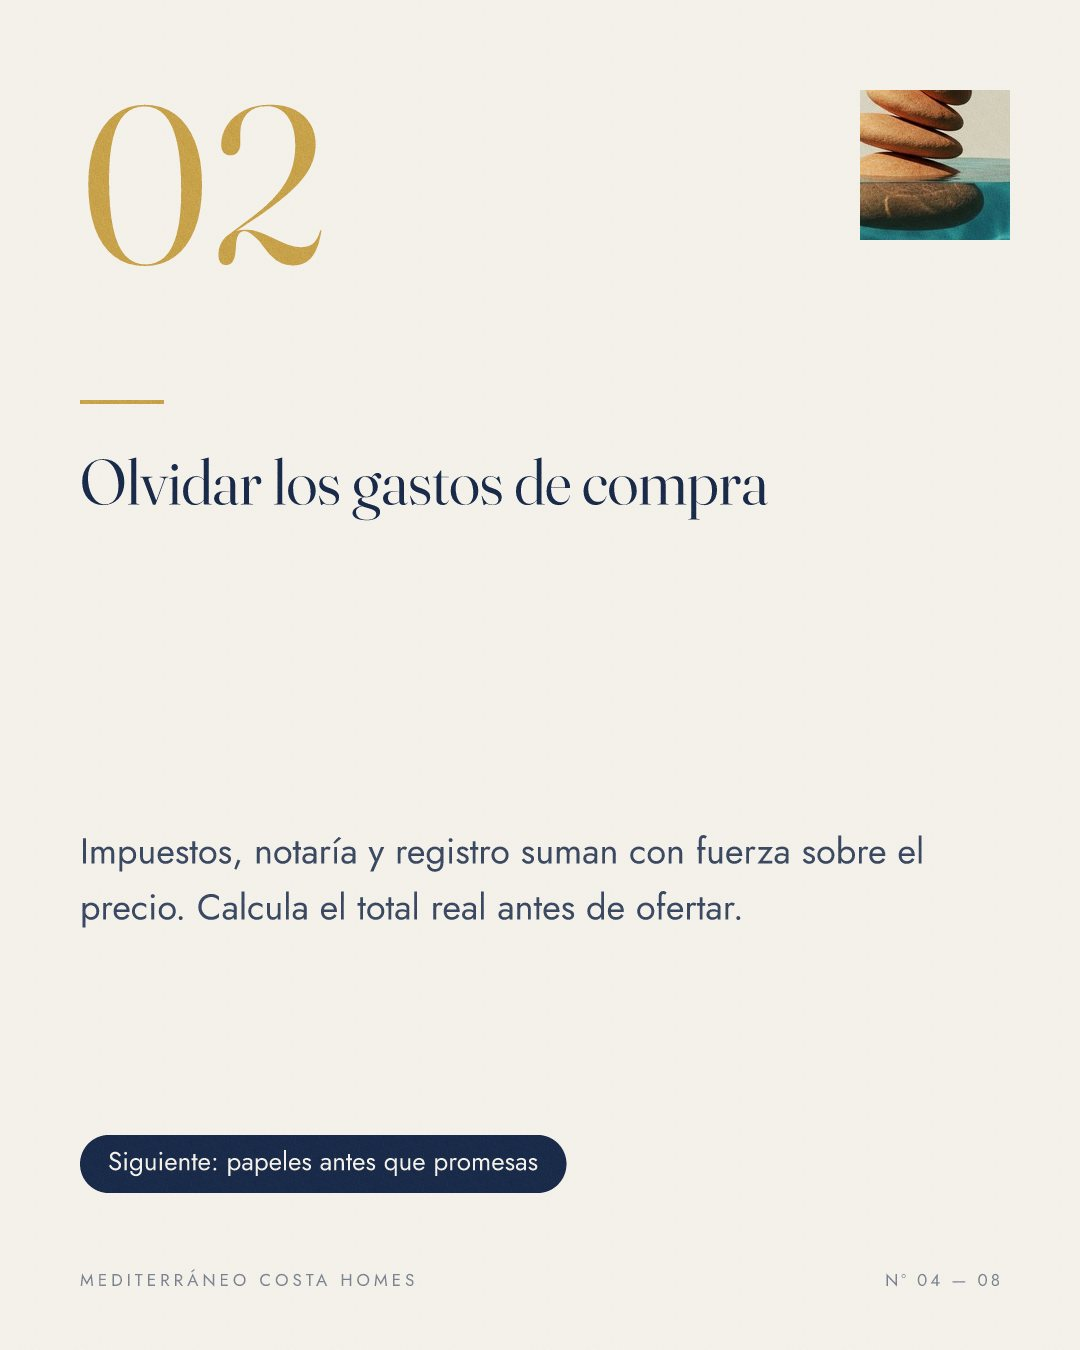
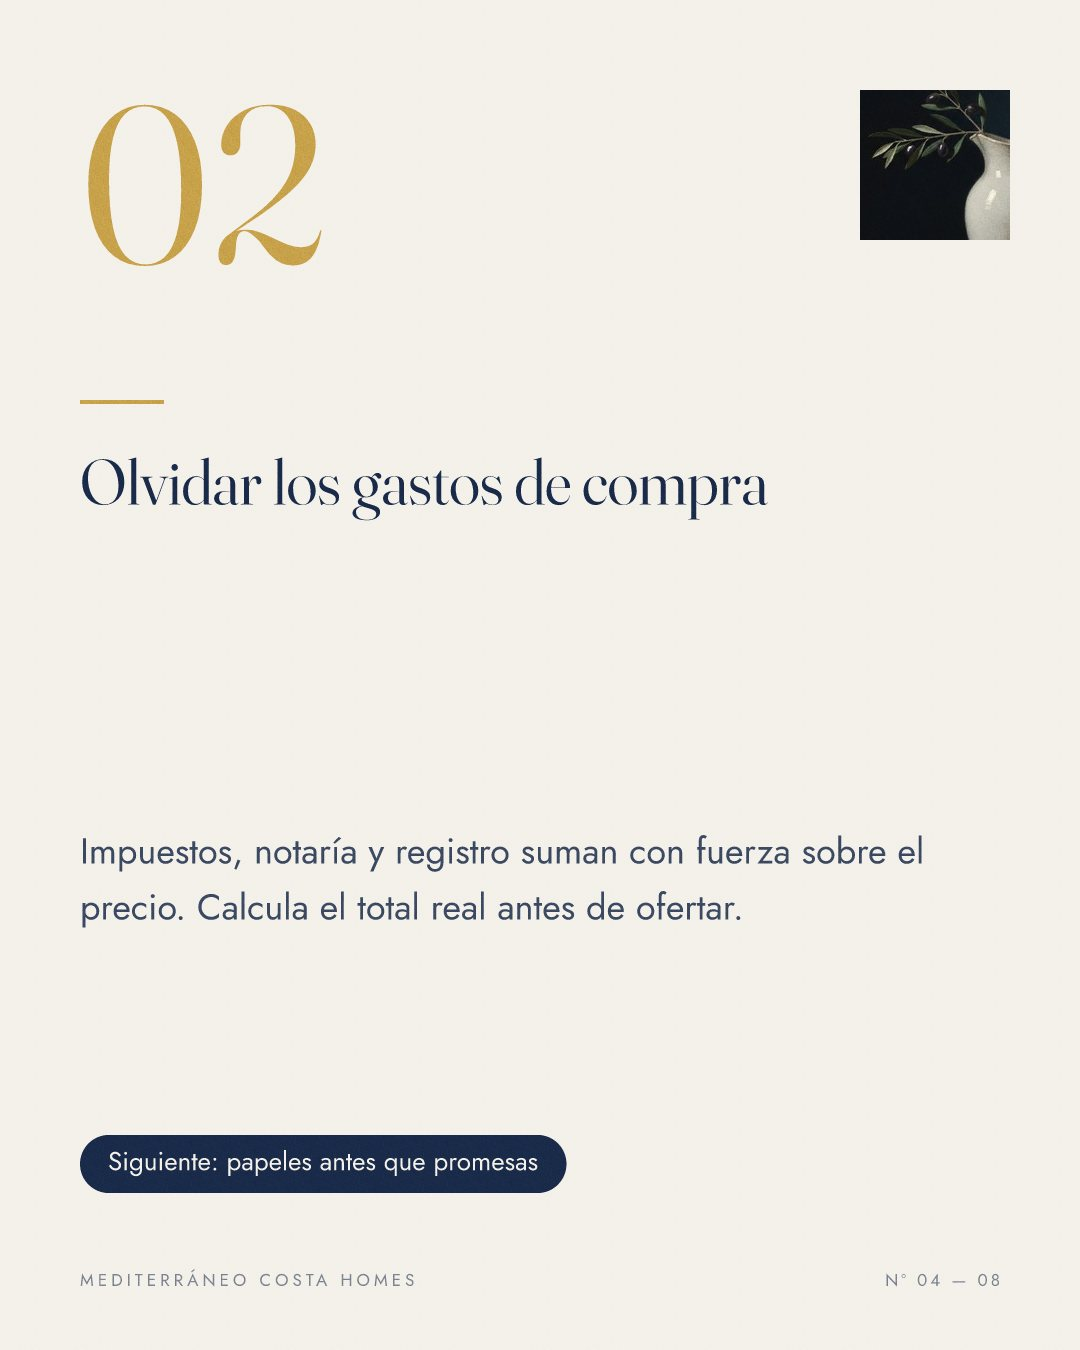
feat(studio): reseed + 2 new styles + two-colour override (Christian 2026-08-28, all three approved/ordered) — (1) BODEGON + SALITRE re-seeded with his approved v2 anchor families (old-master dusk still-life chiaroscuro / editorial 35mm film composition), old anchors retired to carousel/_library/_re

Changed region(s): [[0.7944, 0.0622, 0.9472, 0.1867]]

diff --git a/apps/dashboard/app/(app)/studio/carousel-studio.tsx b/apps/dashboard/app/(app)/studio/carousel-studio.tsx
@@ -44,13 +44,16 @@ const LANGS: [string, string][] = [
   ["ru", "Русский"], ["it", "Italiano"], ["pt", "Português"],
 ];
 
+// the AI-imagery tips styles (fresh artwork per topic; colour mood applies to these)
+const AI_STYLE_KEYS = ["bodegon", "litoral", "tinta", "salitre", "papel", "arcilla", "acuarela", "bordado", "pueblo", "mercado"];
+
 // Style example slides ship as static assets (public/studio/carousel-examples/<style>/<n>.jpg)
 // so the picker paints instantly — no fetch, no signed URLs. Counts must match the files on disk.
 const EXAMPLE_COUNTS: Record<string, number> = {
   // tips styles: FULL decks rendered by the production engine (Christian 2026-08-28: "i want
   // all the slides in examples not just 3")
   acuarela: 8, arcilla: 8, bodegon: 8, bordado: 8, cartel: 7, editorial: 7, encalada: 7,
-  litoral: 8, papel: 8, salitre: 8, sereno: 7, tinta: 8,
+  litoral: 8, mercado: 8, papel: 8, pueblo: 8, salitre: 8, sereno: 7, tinta: 8,
   // listing styles (parked out of the UI): partial sample sets remain
   brisa: 2, cuarteto: 2, horizonte: 3, marea: 2, plano: 3, portada: 3, recorte: 2, riviera: 2, ventana: 2,
 };
@@ -83,14 +86,16 @@ const STYLES: Record<CarouselType, [string, string, string][]> = {
     ["cartel", "Cartel", "Bold Spanish poster type, giant numbers"],
     ["encalada", "Encalada", "Mediterranean — limewash, terracotta and olive"],
     ["sereno", "Sereno", "Quiet luxury — fine lines and lots of air"],
-    ["bodegon", "Bodegón", "AI imagery — sculptural objects on turquoise water"],
+    ["bodegon", "Bodegón", "AI imagery — dusk still-life, painted with light"],
     ["litoral", "Litoral", "AI imagery — Mediterranean travel-poster illustration"],
     ["tinta", "Tinta", "AI imagery — two-ink print posters, the riso sun"],
-    ["salitre", "Salitre", "AI imagery — grainy 35mm coastal film photography"],
+    ["salitre", "Salitre", "AI imagery — editorial 35mm film photography"],
     ["papel", "Papel", "AI imagery — layered paper-cut scenes"],
     ["arcilla", "Arcilla", "AI imagery — the handmade clay miniature world"],
     ["acuarela", "Acuarela", "AI imagery — watercolour and ink sketches"],
     ["bordado", "Bordado", "AI imagery — embroidered thread on linen"],
+    ["pueblo", "Pueblo", "AI imagery — Costa Blanca in bloom: white lanes, blue doors, bougainvillea"],
+    ["mercado", "Mercado", "AI imagery — Spanish food & culture: tapas, markets, café mornings"],
   ],
   quote: [
     ["editorial", "Editorial", "Clean and calm — the classic look"],
@@ -126,6 +131,11 @@ export function CarouselStudio({ initialTopic = "", initialLanguage, resumeGenId
   const examples = EXAMPLES;
   const [exampleStyle, setExampleStyle] = useState<string | null>(null);
   const [exampleIdx, setExampleIdx] = useState(0);
+  // optional two-colour override (Christian 2026-08-28: "choose from a color wheel two colors
+  // for details for all of the templates including the image ones") — off = agency brand
+  const [customColours, setCustomColours] = useState(false);
+  const [colMain, setColMain] = useState("#1a2b4a");
+  const [colAccent, setColAccent] = useState("#c8a24b");
   const [quoteText, setQuoteText] = useState("");
   const [quoteAuthor, setQuoteAuthor] = useState("");
   const [language, setLanguage] = useState(initialLanguage ?? "es");
@@ -386,7 +396,7 @@ export function CarouselStudio({ initialTopic = "", initialLanguage, resumeGenId
               ))}
             </div>
 
-            {["bodegon", "litoral", "tinta", "salitre", "papel", "arcilla", "acuarela", "bordado"].includes(style) && (
+            {AI_STYLE_KEYS.includes(style) && (
               <>
                 <div className="mb-2 mt-7 text-sm font-semibold text-neutral-900 dark:text-neutral-100">Colour mood <span className="font-normal text-neutral-400">(the artwork is generated fresh for your topic)</span></div>
                 <div className="flex flex-wrap gap-2">
@@ -402,8 +412,31 @@ export function CarouselStudio({ initialTopic = "", initialLanguage, resumeGenId
               </>
             )}
 
+            <div className="mb-2 mt-7 text-sm font-semibold text-neutral-900 dark:text-neutral-100">5. Detail colours <span className="font-normal text-neutral-400">(optional — your brand colours unless you choose)</span></div>
+            <div className="flex flex-wrap items-center gap-3">
+              <button type="button" onClick={() => setCustomColours((v) => !v)}
+                className={`rounded-lg border px-3.5 py-2 text-xs font-medium transition ${customColours
+                  ? "border-emerald-600 bg-emerald-600 text-white"
+                  : "border-neutral-200 bg-white text-neutral-600 hover:border-neutral-400 dark:border-neutral-700 dark:bg-neutral-900 dark:text-neutral-300"}`}>
+                {customColours ? "Using custom colours" : "Choose custom colours"}
+              </button>
+              {customColours && (
+                <>
+                  <label className="flex cursor-pointer items-center gap-2 rounded-lg border border-neutral-200 bg-white px-3 py-1.5 text-xs font-medium text-neutral-700 dark:border-neutral-700 dark:bg-neutral-900 dark:text-neutral-300">
+                    <input type="color" value={colMain} onChange={(e) => setColMain(e.target.value)} className="h-6 w-8 cursor-pointer rounded border-0 bg-transparent p-0" />
+                    Main colour
+                  </label>
+                  <label className="flex cursor-pointer items-center gap-2 rounded-lg border border-neutral-200 bg-white px-3 py-1.5 text-xs font-medium text-neutral-700 dark:border-neutral-700 dark:bg-neutral-900 dark:text-neutral-300">
+                    <input type="color" value={colAccent} onChange={(e) => setColAccent(e.target.value)} className="h-6 w-8 cursor-pointer rounded border-0 bg-transparent p-0" />
+                    Accent colour
+                  </label>
+                  <span className="text-[11px] text-neutral-400">Main = grounds &amp; headlines · Accent = numbers &amp; details. Artwork keeps the colour mood above.</span>
+                </>
+              )}
+            </div>
+
             <button
-              onClick={() => void start({ type: "tips", topic: topic.trim(), slides: slideTotal, language, style, scheme }, "form")}
+              onClick={() => void start({ type: "tips", topic: topic.trim(), slides: slideTotal, language, style, scheme, ...(customColours ? { brand_navy: colMain, brand_gold: colAccent } : {}) }, "form")}
               disabled={topic.trim().length < 3}
               className="mt-7 flex w-full items-center justify-center gap-2 rounded-xl bg-emerald-600 py-4 text-[15px] font-semibold text-white transition hover:bg-emerald-700 disabled:opacity-40">
               <Sparkles className="h-4 w-4" /> Create carousel
@@ -508,7 +541,7 @@ export function CarouselStudio({ initialTopic = "", initialLanguage, resumeGenId
         <div className="flex flex-col items-center gap-3 py-24 text-neutral-500">
           <Loader2 className="h-7 w-7 animate-spin" />
           <p className="text-sm">{resuming ? "Opening your design…"
-            : ["bodegon", "litoral", "tinta", "salitre", "papel", "arcilla", "acuarela", "bordado"].includes(style) || style === "vibra"
+            : AI_STYLE_KEYS.includes(style) || style === "vibra"
             ? "Writing the copy and painting the artwork — this takes a few minutes. Worth it."
             : ctype === "listing" ? "Building your carousel — under a minute…" : "Writing your carousel — about a minute…"}</p>
         </div>
@@ -549,7 +582,7 @@ export function CarouselStudio({ initialTopic = "", initialLanguage, resumeGenId
               {plan.type === "tips" && ([
                 ["hook", "Otra vuelta · new hook", "The AI reframes the cover from a different angle"],
                 ["style", "Otra vuelta · new look", "Same words and artwork, next look"],
-                ...(resultPerSlideArt && ["bodegon", "litoral", "tinta", "salitre", "papel", "arcilla", "acuarela", "bordado"].includes(resultStyle)
+                ...(resultPerSlideArt && AI_STYLE_KEYS.includes(resultStyle)
                   ? [["layout", "Otra vuelta · recompose", "Same everything, slides rearranged"]] : []),
               ] as [typeof remixing, string, string][]).map(([axis, title2, tip]) => (
                 <button key={axis} title={tip} disabled={!!remixing} onClick={() => void remix(axis as "hook" | "style" | "layout")}

diff --git a/apps/api/src/routes/studio-wizard.ts b/apps/api/src/routes/studio-wizard.ts
@@ -1145,6 +1145,11 @@ route.post('/carousel', async (c) => {
   const style: CarouselStyle = typeof b.style === 'string' && (allowedStyles as string[]).includes(b.style)
     ? (b.style as CarouselStyle) : 'editorial';
   const scheme = typeof b.scheme === 'string' && TIPS_SCHEMES[b.scheme] ? b.scheme : 'clasico';
+  // optional two-colour override (Christian 2026-08-28): main = brand.navy, accent = brand.gold —
+  // chrome/type only; artwork palette stays with the colour-mood scheme
+  const hex = (v: unknown): string | null => typeof v === 'string' && /^#[0-9a-fA-F]{6}$/.test(v) ? v : null;
+  const brandNavy = hex(b.brand_navy);
+  const brandGold = hex(b.brand_gold);
 
   try {
     // ── tips / quote: no property needed — brand + agency identity only ──────
@@ -1174,6 +1179,8 @@ route.post('/carousel', async (c) => {
       `);
       const bRows = bRes as unknown as any[];
       const { agency, brand } = mapBranding(bRows[0] || {});
+      if (brandNavy) brand.navy = brandNavy;
+      if (brandGold) brand.gold = brandGold;
 
       const label = type === 'tips' ? `Tips carousel · ${topic.slice(0, 80)}` : 'Client quote carousel';
       const ins = await tx.execute(sql`
@@ -1181,7 +1188,7 @@ route.post('/carousel', async (c) => {
           (agency_id, generation_type, status, prompt, requested_by, raw_request)
         VALUES
           (${agencyId}, 'social_post', 'processing', ${label}, ${user?.sub ?? null}::uuid,
-           ${JSON.stringify({ engine: 'carousel', content_type: 'carousel', carousel_type: type, carousel_style: style, image_scheme: scheme, include_recap: includeRecap, include_context: includeContext, topic, quote_text: quoteText, quote_author: quoteAuthor, slide_count: slideCount, language })}::jsonb)
+           ${JSON.stringify({ engine: 'carousel', content_type: 'carousel', carousel_type: type, carousel_style: style, image_scheme: scheme, include_recap: includeRecap, include_context: includeContext, topic, quote_text: quoteText, quote_author: quoteAuthor, slide_count: slideCount, language, brand_navy: brandNavy, brand_gold: brandGold })}::jsonb)
         RETURNING id
       `);
       const rows = ins as unknown as Array<{ id: string }>;
@@ -1287,6 +1294,9 @@ route.post('/carousel/update', async (c) => {
     `);
     const bRows = bRes as unknown as any[];
     const { agency, brand } = mapBranding(bRows[0] || {});
+    const rawU = (rows[0].raw_request ?? {}) as Record<string, unknown>;
+    if (typeof rawU.brand_navy === 'string') brand.navy = rawU.brand_navy;
+    if (typeof rawU.brand_gold === 'string') brand.gold = rawU.brand_gold;
     const contact = [agency.web, agency.phone].filter(Boolean).join(' · ');
 
     // re-render in the SAME visual style the carousel was created with
@@ -1404,7 +1414,7 @@ route.get('/suggestions', async (c) => {
 //   style  → same words + artwork, next look in the ring (chrome/type treatment changes)
 //   layout → same everything, per-tip layout rotation shifts (per-slide-art decks only)
 // The remix lands as a NEW generation so the original stays in the library untouched.
-const REMIX_IMG_RING = ['bodegon', 'litoral', 'tinta', 'salitre', 'papel', 'arcilla', 'acuarela', 'bordado'];
+const REMIX_IMG_RING = ['bodegon', 'litoral', 'tinta', 'salitre', 'papel', 'arcilla', 'acuarela', 'bordado', 'pueblo', 'mercado'];
 const REMIX_TYPE_RING = ['editorial', 'cartel', 'encalada', 'sereno'];
 route.post('/carousel/remix', async (c) => {
   const tx = c.get('tx');
@@ -1466,6 +1476,8 @@ route.post('/carousel/remix', async (c) => {
     `);
     const bRows = bRes as unknown as any[];
     const { agency, brand } = mapBranding(bRows[0] || {});
+    if (typeof raw.brand_navy === 'string') brand.navy = raw.brand_navy as string;
+    if (typeof raw.brand_gold === 'string') brand.gold = raw.brand_gold as string;
     const contact = [agency.web, agency.phone].filter(Boolean).join(' · ');
 
     // render synchronously — the deck's own artwork is reused, so this is seconds, not minutes

diff --git a/studio/engine/carouselTipsImage.ts b/studio/engine/carouselTipsImage.ts
@@ -14,9 +14,11 @@ import { CarouselBrand } from "./renderCarousel";
 
 export type TipsImageStyle =
   | "bodegon" | "litoral" | "tinta" | "salitre"
-  | "papel" | "arcilla" | "acuarela" | "bordado";
+  | "papel" | "arcilla" | "acuarela" | "bordado"
+  | "pueblo" | "mercado";
 export const TIPS_IMAGE_STYLES: TipsImageStyle[] = [
   "bodegon", "litoral", "tinta", "salitre", "papel", "arcilla", "acuarela", "bordado",
+  "pueblo", "mercado",
 ];
 
 const W = 1080, H = 1350;
@@ -38,6 +40,8 @@ const CFG: Record<TipsImageStyle, StyleCfg> = {
   arcilla: { mode: "light", s2: "card", grain: 0.035, ctaY: 0.7 },
   acuarela: { mode: "light", s2: "card", grain: 0.035, ctaY: 0.55 },
   bordado: { mode: "light", s2: "card", grain: 0.035, ctaY: 0.75 },
+  pueblo: { mode: "light", s2: "card", grain: 0.04, ctaY: 0.5 },     // Costa Blanca in bloom (2026-08-28)
+  mercado: { mode: "photo", s2: "card", grain: 0.04, ctaY: 0.55 },   // Spanish food & culture (2026-08-28)
 };
 
 

diff --git a/studio/engine/carouselStyles.ts b/studio/engine/carouselStyles.ts
@@ -22,13 +22,16 @@ export type CarouselStyle =
   | "plano" | "portada" | "recorte" | "marea"
   | "cuarteto" | "brisa" | "riviera" | "ventana"
   | "bodegon" | "litoral" | "tinta" | "salitre"
-  | "papel" | "arcilla" | "acuarela" | "bordado";
+  | "papel" | "arcilla" | "acuarela" | "bordado"
+  | "pueblo" | "mercado";
 
 export const PLANNED_STYLES: Record<"tips" | "quote", CarouselStyle[]> = {
   tips: [
     "editorial", "cartel", "encalada", "sereno",
-    // AI-imagery styles (Christian-approved 2026-07-17) — 3-image families from the seeded library
+    // AI-imagery styles (Christian-approved 2026-07-17; pueblo+mercado added 2026-08-28) —
+    // 3-image families from the seeded library
     "bodegon", "litoral", "tinta", "salitre", "papel", "arcilla", "acuarela", "bordado",
+    "pueblo", "mercado",
   ],
   quote: ["editorial", "sereno", "encalada"],
 };

diff --git a/apps/api/src/lib/studio-carousel-image.ts b/apps/api/src/lib/studio-carousel-image.ts
@@ -26,6 +26,8 @@ export const TIPS_LIBRARY: Record<string, [string, string, string]> = {
   arcilla: ['arcilla.png', 'arcilla-2.png', 'arcilla-3.png'],
   acuarela: ['acuarela.png', 'acuarela-2.png', 'acuarela-3.png'],
   bordado: ['bordado.png', 'bordado-2.png', 'bordado-3.png'],
+  pueblo: ['pueblo.png', 'pueblo-2.png', 'pueblo-3.png'],
+  mercado: ['mercado.png', 'mercado-2.png', 'mercado-3.png'],
 };
 
 /** Colour schemes — all deliberately Spanish-coastal: the longing, the light, the promise. */

diff --git a/apps/dashboard/app/(app)/studio/wizard-actions.ts b/apps/dashboard/app/(app)/studio/wizard-actions.ts
@@ -195,6 +195,8 @@ export async function carouselAction(input: {
   style?: string;
   scheme?: string;
   slides?: number;
+  brand_navy?: string;   // optional two-colour override: main/ground colour (hex)
+  brand_gold?: string;   // optional two-colour override: accent colour (hex)
 }): Promise<Envelope> {
   return call("/api/studio/carousel", { method: "POST", body: input });
 }
